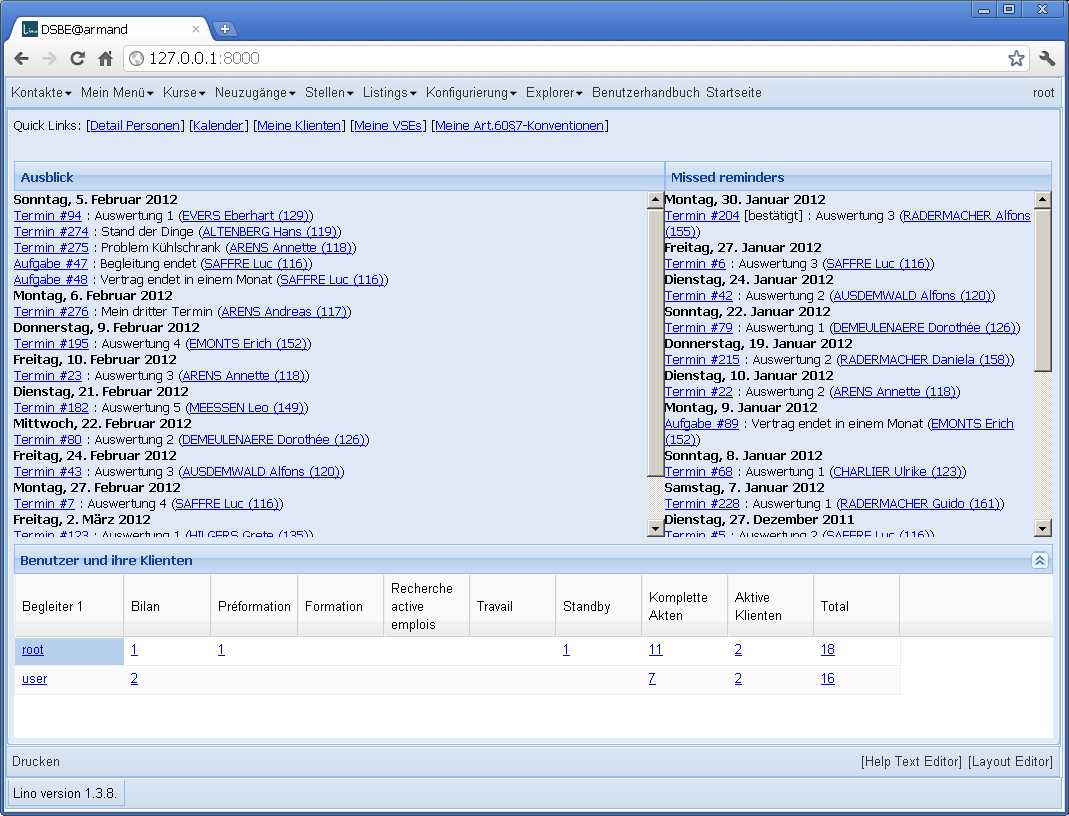
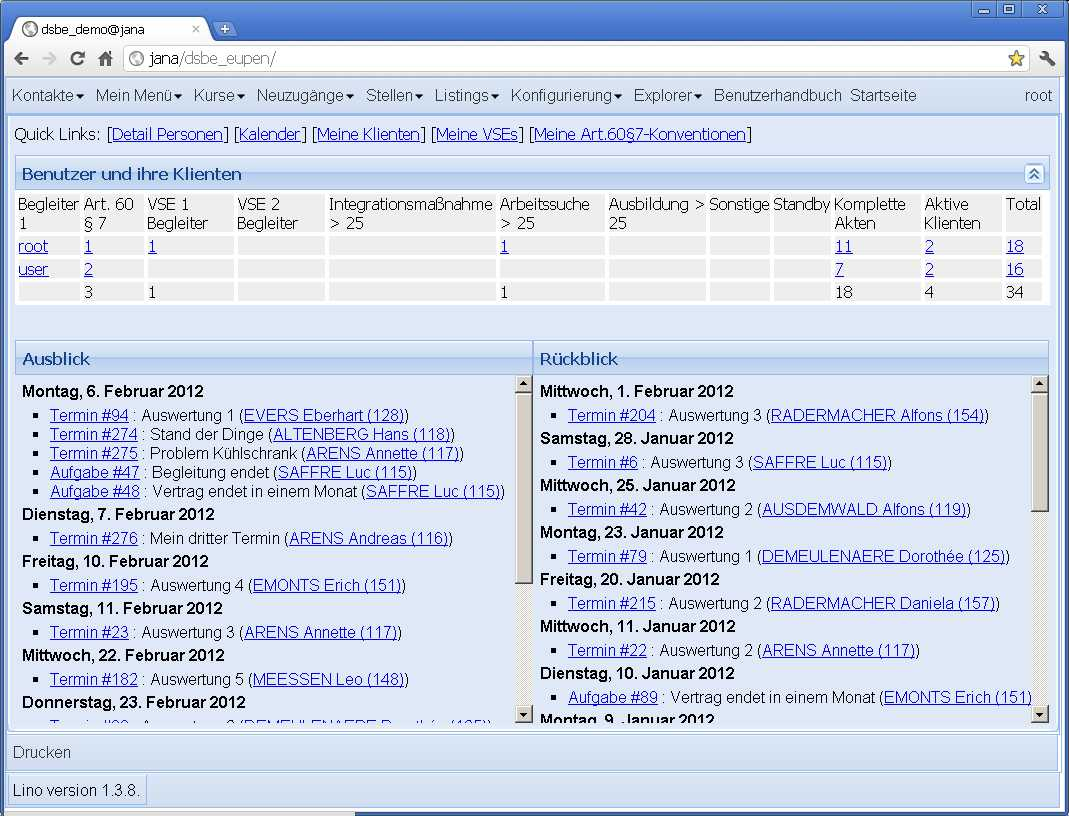
http://code.google.com/p/lino/source/browse/docs/blog/2012/0204.rst

diff --git a/lino/ui/extjs3/linolib.js b/lino/ui/extjs3/linolib.js
@@ -3154,9 +3154,9 @@ Lino.GridPanel = Ext.extend(Lino.GridPanel,{
   // pageSize depends on grid height (Trying to remove scrollbar)
   // Thanks to Christophe Badoit on http://www.extjs.net/forum/showthread.php?t=82647
   calculatePageSize : function() {
-    if (!this.isVisible()) { 
-      console.log('calculatePageSize : not visible');
-      return false; }
+    //~ if (!this.isVisible()) { 
+      //~ console.log('calculatePageSize : not visible');
+      //~ return false; }
     if (!this.rendered) { 
       console.log('calculatePageSize : not rendered');
       return false; }

diff --git a/docs/releases/2012/1.3.8.rst b/docs/releases/2012/1.3.8.rst
@@ -1,18 +1,27 @@
-Version 1.3.8 (Coming)
-======================
+Version 1.3.8 (2012-02-04)
+==========================
 
 Diese Version ist eine der Letzten, bevor es an die TX25 und Authentifizierung per eId-Karte geht.
 
-Es bleibt noch folgender Punkt offen, für den ich noch auf eine konkrete Idee warte:
+Es bleibt noch folgender Punkt offen, 
+für den ich auf eine konkrete Idee warte:
 
 - Neuzugänge: hier muss noch ein Button bzw. eine Prozedur her für den 
   Akt der Zuweisung. Aber wo soll der Button stehen?
   
 
-
 Sichtbare Änderungen
 --------------------
 
+- Die Startseite hat einen neuen Look. 
+
+- Zwei neue virtuelle Kolonnen mit Anfangs- und Enddatum des aktuellen Vertrags
+  (wenn es einen gibt)
+  in :class:`Meine Klienten <lino.apps.dsbe.models.MyPersons>` 
+  und allen Untervarianten.
+  Kann sein, dass Lino sich noch manchmal irrt bei der Entscheidung, 
+  ob es einen "aktuellen Vertrag" gibt. Fehler bitte melden.
+  
 - Neue Checkbox-Kolonne "Dringend" 
   in :class:`Kursanfragen <lino.apps.dsbe.models.CourseRequest>`, 
   die anzukreuzen ist, wenn der Kurs für die Arbeitssuche benötigt wird.
@@ -35,8 +44,7 @@ Sichtbare Änderungen
   schon beim Speichern abgefangen werden.
   
 - Slave-Grids (Tabellen innerhalb eines Detail-Fensters) haben 
-  jetzt keine obere Toolbar mehr.
-  (Die obere Toolbar die mit den Elementen Schnellsuche, [csv], [html], [pdf], [Seite x von y] usw...)
+  jetzt keine obere Toolbar mehr (also die mit den Elementen Schnellsuche, [csv], [html], [pdf], [Seite x von y] usw...).
   Vorteil: mehr Platz für "nützliche" Daten und ein etwas schnellerer Bildschirmaufbau.
   Nachteil: 
   Um Daten aus einer Slave-Grid zu exportieren, zu filtern, oder darin zu blättern, 
@@ -61,13 +69,6 @@ Sichtbare Änderungen
       
 - Anzahl Zeilen pro Seite einer Grid werden jetzt dynamisch in Funktion 
   der Fenstergröße ermittelt.
-  
-- Zwei neue virtuelle Kolonnen mit Anfangs- und Enddatum des aktuellen Vertrags
-  (wenn es einen gibt)
-  in :class:`Meine Klienten <lino.apps.dsbe.models.MyPersons>` 
-  und allen Untervarianten.
-  Kann sein, dass Lino sich noch manchmal irrt bei der Entscheidung, 
-  ob es einen "aktuellen Vertrag" gibt. Fehler bitte melden.
   
 - Hilfetexte: 
   Bei einigen Feldern erscheint jetzt schon ein Hilfetext, 

diff --git a/docs/blog/2012/0204.rst b/docs/blog/2012/0204.rst
@@ -58,9 +58,21 @@ Und eins nachher:
 .. image:: 0204b.jpg
   :scale: 60
 
-Was mir noch nicht gefällt: 
-
-- Die Höhen des Quicklinks-Bereichs und des Panels
+Was mir noch nicht gefällt: die Höhen des Quicklinks-Bereichs und des Panels
   :class:`Benutzer und ihre Klienten <lino.apps.dsbe.models.UsersWithClients>` 
-  sollten automatisch ausgerichtet werden.
+  sollten automatisch ausgerichtet werden. Aber das ist für später. 
+  
+Notfalls kann der neue Look übrigens durch Auskommentieren einer einzigen Zeile wieder rückgängig gemacht werden.
 
+
+:doc:`/releases/2012/1.3.8` raus und in Eupen installiert.
+
+Ein Bug, den ich erst nach dem Release entdeckt habe: 
+beim *erneuten* Öffnen einer Grid machte er kein Refresh.
+Man musste selbst zunächst auf den Refresh-Button klicken.
+
+linolib.js Zeilen 3160ff manuell rauskommentiert::
+
+    //~ if (!this.isVisible()) { 
+      //~ console.log('calculatePageSize : not visible');
+      //~ return false; }

diff --git a/docs/download.rst b/docs/download.rst
@@ -4,12 +4,18 @@ Download
 
 The current stable release is 
 
-- :doc:`/releases/2012/1.3.6` : 
-  `zip <dist/lino-1.3.6.zip>`_ / `tar.gz <dist/lino-1.3.6.tar.gz>`_
+- :doc:`/releases/2012/1.3.8` : 
+  `zip <dist/lino-1.3.8.zip>`_ / `tar.gz <dist/lino-1.3.8.tar.gz>`_
 
 See :doc:`/admin/install` and :doc:`/releases/index`.
 
 List of historic releases:
+
+- :doc:`/releases/2012/1.3.7` : 
+  `zip <dist/lino-1.3.7.zip>`_ / `tar.gz <dist/lino-1.3.7.tar.gz>`_
+
+- :doc:`/releases/2012/1.3.6` : 
+  `zip <dist/lino-1.3.6.zip>`_ / `tar.gz <dist/lino-1.3.6.tar.gz>`_
 
 - :doc:`/releases/2012/1.3.5` : 
   `zip <dist/lino-1.3.5.zip>`_ / `tar.gz <dist/lino-1.3.5.tar.gz>`_
